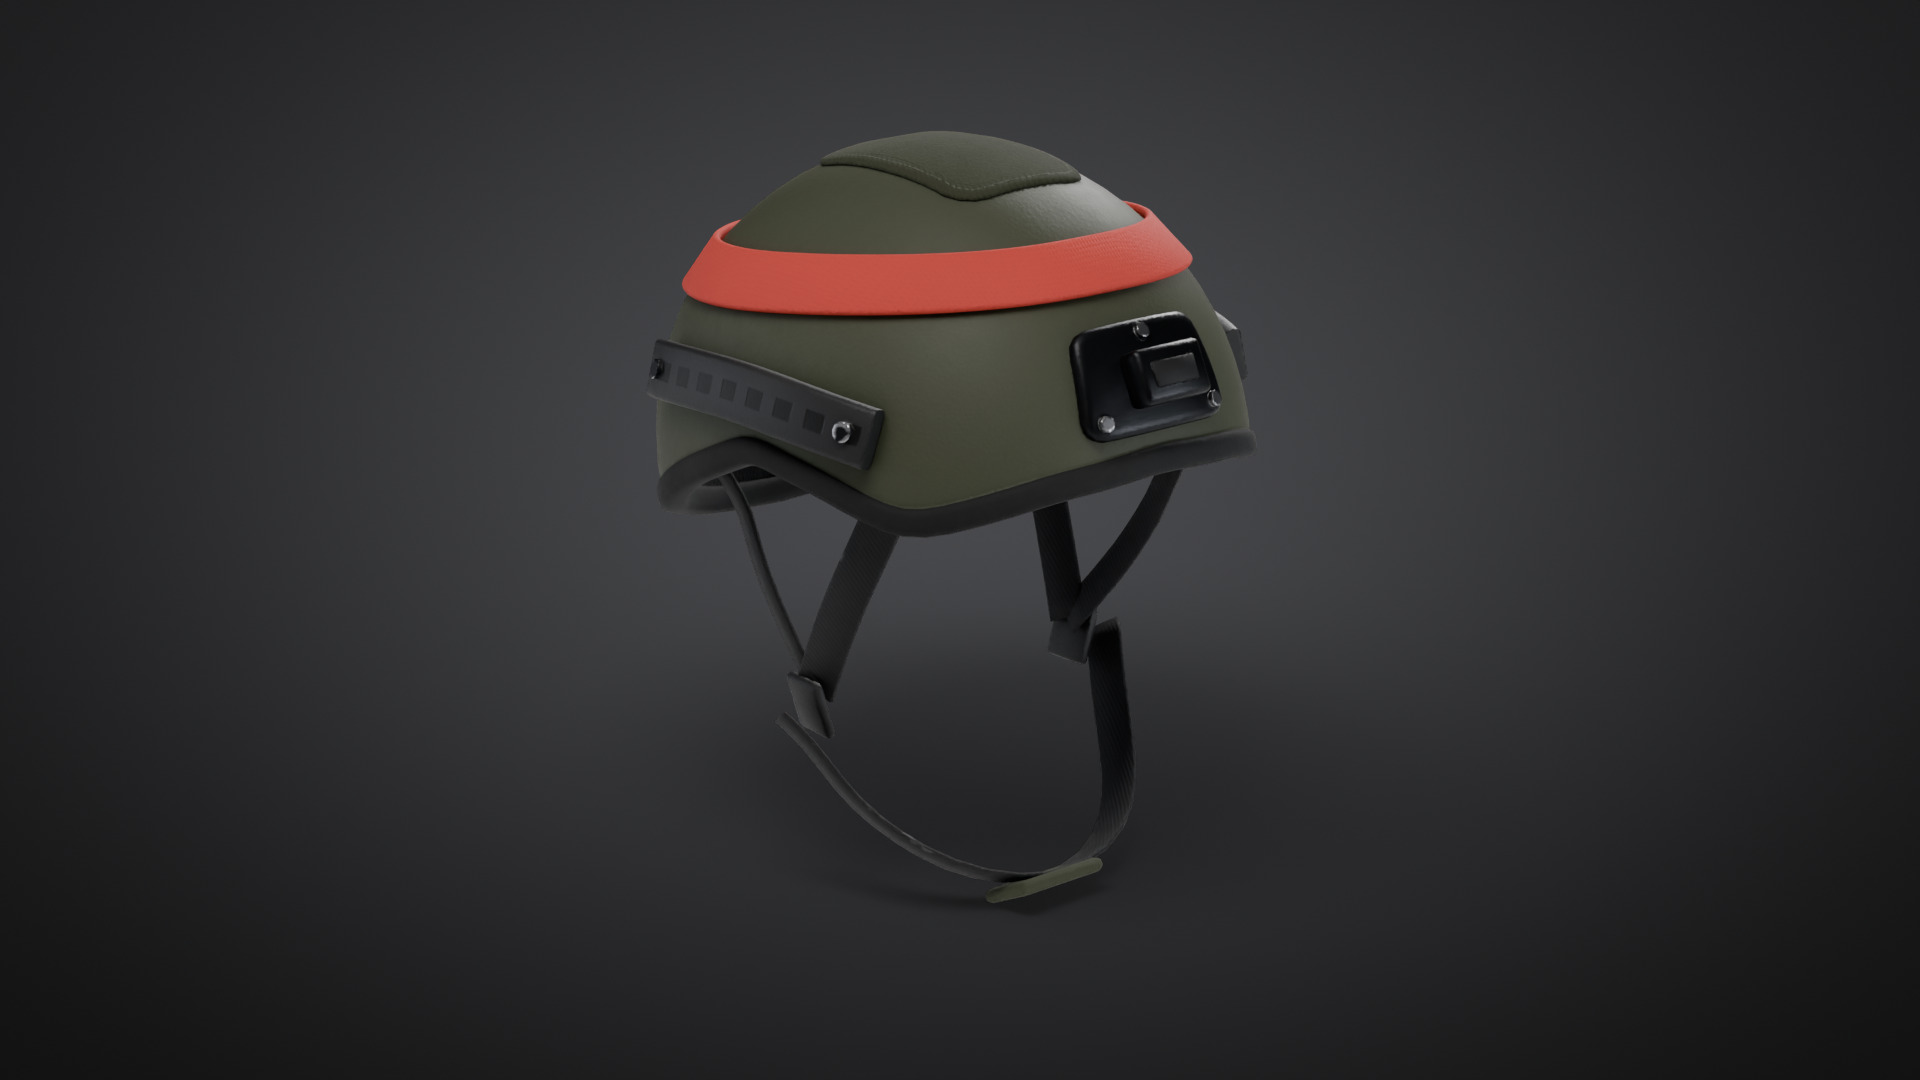
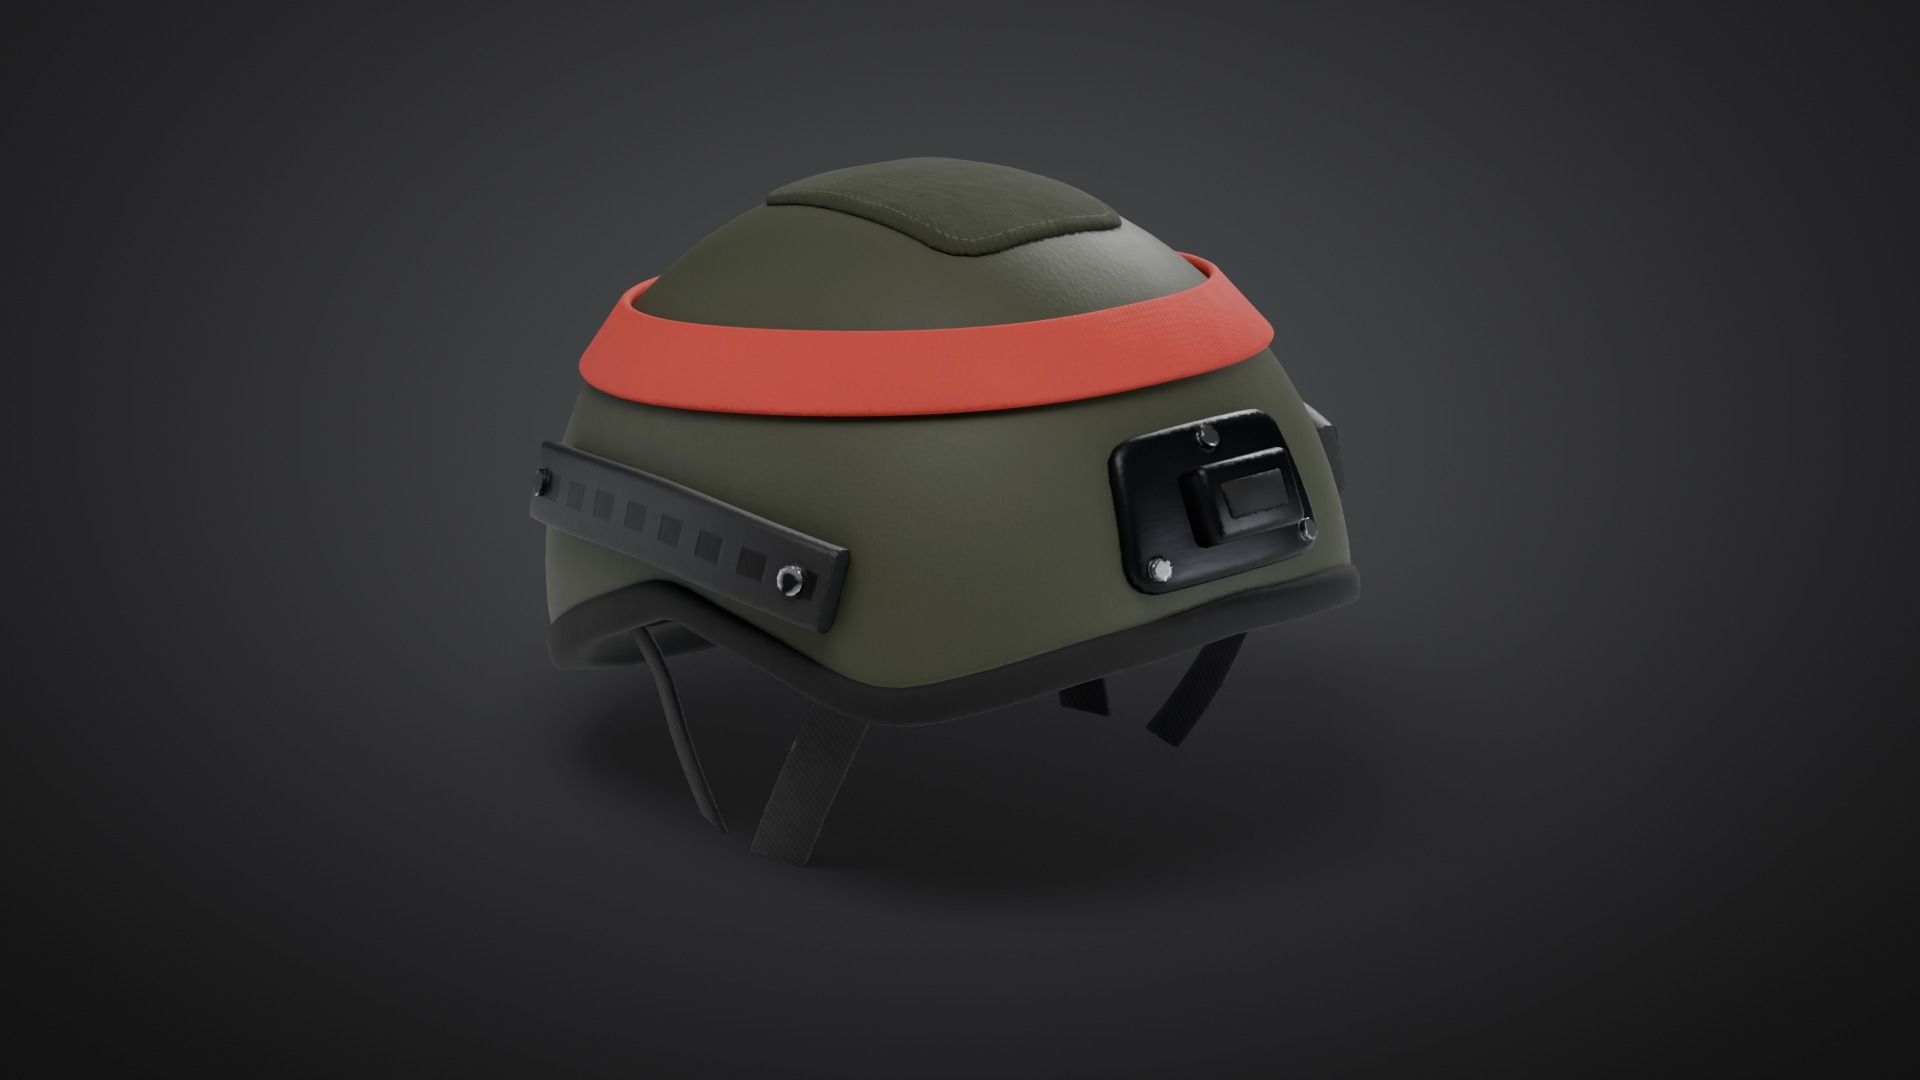
Team gear on every player body: plate carrier, helmet or cap, goggles, mask, armband
UAirsoftTeamGearComponent attaches seven original gear pieces to the third-person
mannequin (or a head-only subset to the stand-in body) with team tints from the mask
channel, a per-player variant picked from the player id (helmet 60% / cap 40%, knee
pads 55%, black / charcoal / ranger green / tan), placement computed from the
skeleton's reference pose, and dev console commands to check bones and tune fits
live (airsoft.gear.bones / tune / show / reroll). The old glowing team band only
shows when the gear isn't imported. Models are on the art branch.

Claude-Session: https://claude.ai/code/session_0118nFYumEjG82mLGbGwmWwA

diff --git a/Source/AndrewsAirsoft/Private/AirsoftCharacter.cpp b/Source/AndrewsAirsoft/Private/AirsoftCharacter.cpp
@@ -7,6 +7,7 @@
 #include "AirsoftGunVisual.h"
 #include "AirsoftMovementComponent.h"
 #include "AirsoftPlayerState.h"
+#include "AirsoftTeamGearComponent.h"
 #include "AirsoftSaveGame.h"
 #include "AirsoftSettings.h"
 #include "Animation/AnimInstance.h"
@@ -86,6 +87,7 @@ AAirsoftCharacter::AAirsoftCharacter(const FObjectInitializer& ObjectInitializer
 	TPGun->SetRelativeLocation(FVector(16.f, 17.f, -9.f));
 
 	Combat = CreateDefaultSubobject<UAirsoftCombatComponent>(TEXT("Combat"));
+	TeamGear = CreateDefaultSubobject<UAirsoftTeamGearComponent>(TEXT("TeamGear"));
 
 	FallbackBody = CreateDefaultSubobject<UStaticMeshComponent>(TEXT("FallbackBody"));
 	FallbackBody->SetupAttachment(Capsule);
@@ -420,6 +422,25 @@ void AAirsoftCharacter::ApplyTeamLook()
 		// Muted team-tinted fatigues on the stand-in body.
 		const FLinearColor Fatigue = FMath::Lerp(FLinearColor(0.09f, 0.1f, 0.08f), Color * 0.35f, 0.35f);
 		BodyMID->SetVectorParameterValue(TEXT("Color"), Fatigue);
+	}
+	if (TeamGear)
+	{
+		// Same player id on every machine, so everyone sees the same helmet/cap and colourway.
+		const AAirsoftPlayerState* GearPS = GetAirsoftPlayerState();
+		const int32 GearSeed = GearPS ? GearPS->GetPlayerId() : 0;
+		if (bHasMannequin)
+		{
+			USkinnedMeshComponent* GearBody = bUsePoseMesh ? static_cast<USkinnedMeshComponent*>(PoseMesh.Get()) : GetMesh();
+			TeamGear->ApplyTo(GearBody, Team, GearSeed);
+		}
+		else
+		{
+			TeamGear->ApplyToFallbackHead(FallbackHead, Team, GearSeed);
+		}
+		if (TeamBand)
+		{
+			TeamBand->SetVisibility(!TeamGear->HasArmband()); // the glowing band only when the gear isn't imported
+		}
 	}
 	if (Combat)
 	{

diff --git a/Tools/Blender/gear/build_teamgear.py b/Tools/Blender/gear/build_teamgear.py
@@ -719,7 +719,7 @@ def build_softcap(B):
 
     us = np.linspace(-deg(74) * 0.105, deg(74) * 0.105, 25)
     outer_edge = [(u, 0.074 * max(0.0, math.cos(u / (deg(74) * 0.105) * math.pi / 2)) ** 0.55 + 0.002) for u in us]
-    ol = np.array([(us[-1], -0.006), (us[0], -0.006)] + outer_edge)
+    ol = np.array([(us[-1], -0.032), (us[0], -0.032)] + outer_edge)  # root deep inside the crown: no stitch rows along it
     ol = tg.fillet(tg.ccw(ol), 0.008, 3)
     B.add(tg.pillow(ol, 0.005, brim_map, n=72, kind="round", steps=2, face_insets=(0.0, 0.002, 0.0045, 0.008, 0.013, 0.02), scales=(0.6, 0.3)), "twill_brim")
     # front loop panel + team patch
@@ -1357,7 +1357,7 @@ def import_asset(aid, coll, tints, offset=(0, 0, 0), rot_z=0.0, proxy_res=2048):
             coll.objects.link(o)
             o.matrix_world = Matrix.Translation(Vector(offset)) @ Matrix.Rotation(rot_z, 4, "Z") @ Matrix.Translation(Vector(tuple(tb.bone(bone))))
             if piece == "Glass":
-                m = tbk.glass_material(f"PVG_{aid}", tuple(GLASS["Tint"]))
+                m = bpy.data.materials.get(f"PVG_{aid}") or tbk.glass_material(f"PVG_{aid}", tuple(GLASS["Tint"]))  # shared (fresh_material would replace it)
             else:
                 paths = bk.texture_paths(out_dir, aid, piece)
                 if all(os.path.exists(p) for p in paths.values()):

diff --git a/Source/AndrewsAirsoft/Public/AirsoftCharacter.h b/Source/AndrewsAirsoft/Public/AirsoftCharacter.h
@@ -16,6 +16,7 @@ class UStaticMeshComponent;
 class UTextRenderComponent;
 class UMaterialInstanceDynamic;
 class UPoseableMeshComponent;
+class UAirsoftTeamGearComponent;
 class AAirsoftPlayerState;
 
 UCLASS()
@@ -114,6 +115,8 @@ protected:
 	UPROPERTY(VisibleAnywhere) TObjectPtr<UTextRenderComponent> HitCall;
 	/** Visible body when the mannequin is used: a copy of the animated mesh with the arms posed onto the gun. */
 	UPROPERTY(VisibleAnywhere) TObjectPtr<UPoseableMeshComponent> PoseMesh;
+	/** Plate carrier, helmet or cap, goggles, mask, armband and knee pads worn by the third-person body. */
+	UPROPERTY(VisibleAnywhere) TObjectPtr<UAirsoftTeamGearComponent> TeamGear;
 
 	UPROPERTY() TObjectPtr<UMaterialInstanceDynamic> TeamMID;
 	UPROPERTY() TObjectPtr<UMaterialInstanceDynamic> BodyMID;

diff --git a/Content/Python/airsoft_setup_lib/materials.py b/Content/Python/airsoft_setup_lib/materials.py
@@ -41,6 +41,7 @@ GLASS = {
     "*": ((0.08, 0.12, 0.13), 0.22, 0.04, 0.0),
     "Car_Sedan": ((0.03, 0.035, 0.04), 0.6, 0.03, 0.0), "Car_Coupe": ((0.03, 0.035, 0.04), 0.6, 0.03, 0.0),
     "BoxTruck": ((0.04, 0.045, 0.05), 0.55, 0.05, 0.0),
+    "Goggles": ((0.025, 0.027, 0.03), 0.62, 0.04, 0.0),       # smoked lens (the gear component also sets it at runtime)
     "BackBar_4m": ((0.25, 0.16, 0.05), 0.45, 0.06, 0.6),        # bottles, lit by the LED shelf
     "StreetLamp": ((1.0, 0.62, 0.3), 0.5, 0.3, 12.0), "Chandelier": ((1.0, 0.85, 0.65), 0.35, 0.05, 4.0),
     "WallSconce": ((1.0, 0.8, 0.6), 0.6, 0.4, 8.0), "CeilingLight_Brass": ((1.0, 0.86, 0.68), 0.75, 0.6, 10.0),
